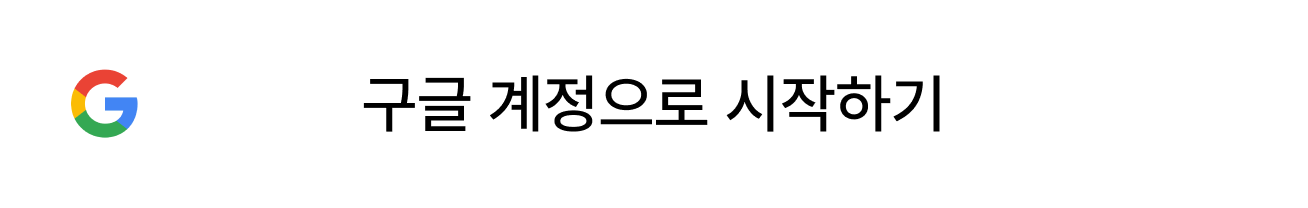
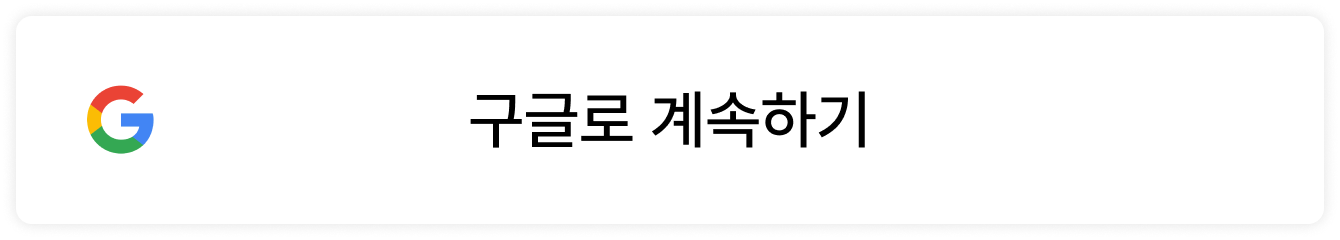
login page button image fix

Changed region(s): [[0.2752, 0.3462, 0.7339, 0.6346], [0.0306, 0.3173, 0.1223, 0.6635]]

diff --git a/src/components/login/LoginPage.components.jsx b/src/components/login/LoginPage.components.jsx
@@ -21,17 +21,17 @@ function LoginPage() {
 
       <Styled.ButtonContainer>
         <Styled.LoginButton
-          src="/images/kakao_login.svg"
+          src="/images/kakao_login.png"
           alt="kakaoLogin"
           onClick={kakaoLogin}
         />
         <Styled.LoginButton
-          src="/images/google_login.svg"
+          src="/images/google_login.png"
           alt="googleLogin"
           onClick={googleLogin}
         />
         <Styled.LoginButton
-          src="/images/apple_login.svg"
+          src="/images/apple_login.png"
           alt="applelogin"
           onClick={appleLogin}
         />
